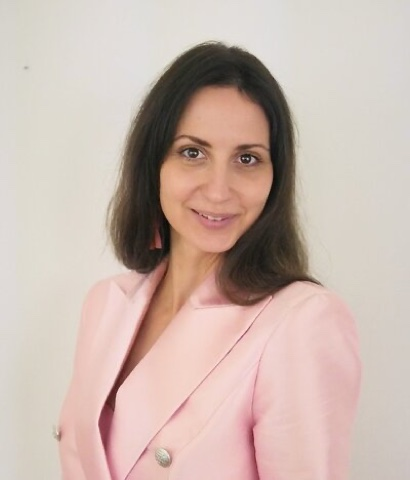
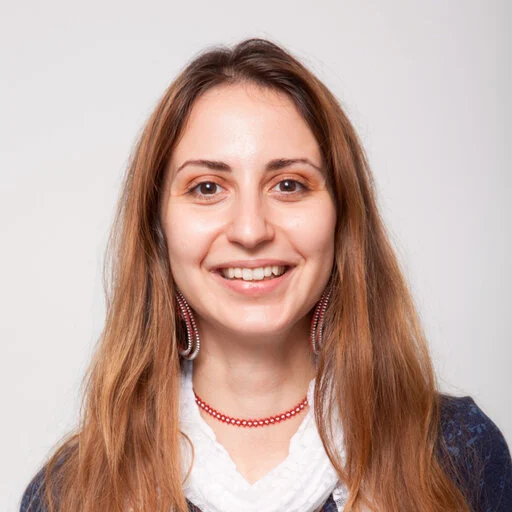
Shorten organizer name to Khuong T G Hieu

diff --git a/index.html b/index.html
@@ -179,8 +179,8 @@
       <p class="talk">Benchmarking, AutoML, AI evaluation</p>
     </div>
     <div class="person">
-      <img class="avatar" src="assets/khuong-hieu.jpg" alt="Khuong Thanh Gia Hieu">
-      <h3><a href="https://www.linkedin.com/in/hieu-khuong/">Khuong Thanh Gia Hieu</a></h3>
+      <img class="avatar" src="assets/khuong-hieu.jpg" alt="Khuong T G Hieu">
+      <h3><a href="https://www.linkedin.com/in/hieu-khuong/">Khuong T G Hieu</a></h3>
       <p class="affil">Université Paris-Saclay</p>
       <p class="talk">LLM benchmarking, AI in peer review</p>
     </div>